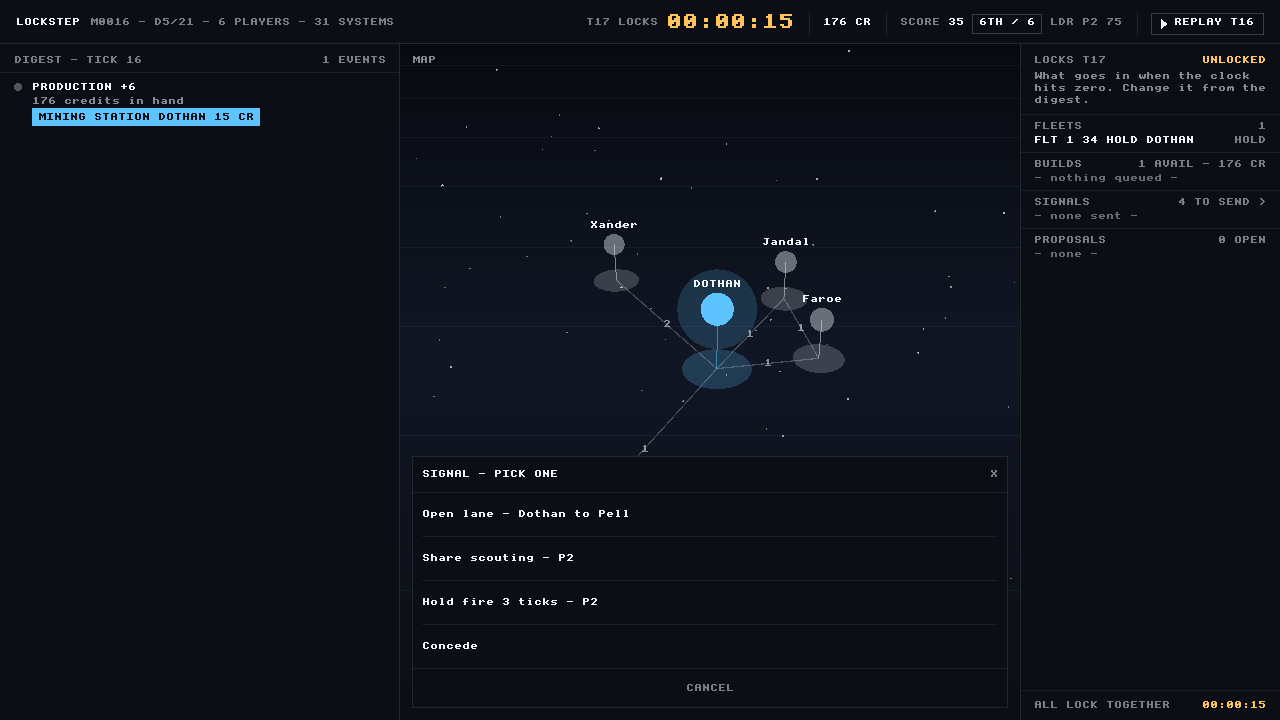
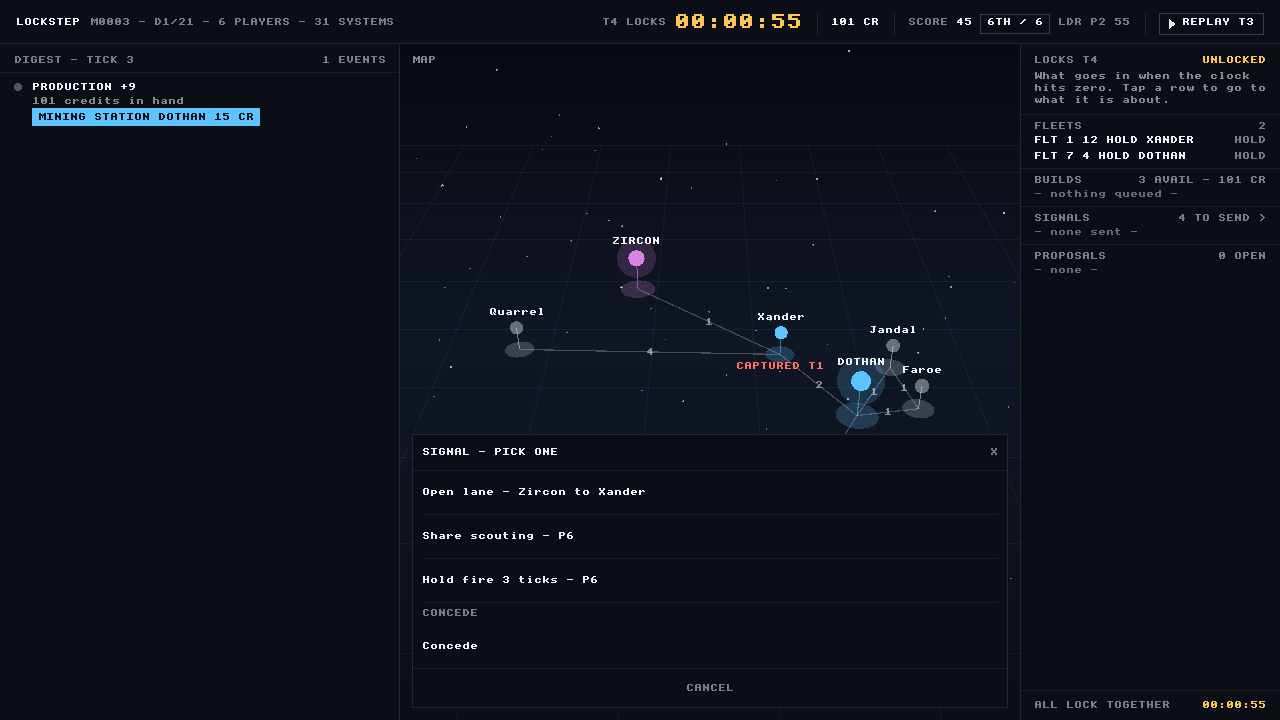
Retake every capture the eight changes touched
`Design/UI/screens/` is the design record's evidence, so a change that moves a
pixel makes it stale. Retaken from the Debug build carrying ADR-060 to ADR-066,
same recipe as 2026-09-12's first set: thirteen redone and three states that had
none.

New: `01-rail-hover.png` (the locks rail with the pointer on a row),
`01-signal-sheet-armed.png` (the concede armed, red, under its band), and
`06-at-lock-sheet.png` (a sheet left open across the lock, dim, with the LOCKED
chip in its header).

Unchanged and left alone: `03-join.png`, `05-connecting.png`, the two refusals,
and -- byte for byte, which is the check -- `01-finished.png`,
`05-match-finished.png` and `05-waiting-for-the-host.png`, whose rails were
already in a state these changes do not touch.

README.md names them, and says which two states of the build have no capture and
why: the digest's page band needs a card stack a six-player practice board does
not produce, and the destination row's garrison line needs a rival fleet parked
on a neighbour. Both are pinned by tests instead.

Claude-Session: https://claude.ai/code/session_01Bj1EpneFswCUm8nR9QbAts

diff --git a/Design/UI/README.md b/Design/UI/README.md
@@ -16,26 +16,34 @@ from the tree, not from the plan.
 
 Built from `Design/space-4x-one-pager-v10.md`, ADR-014 (interface layer), ADR-027 (owner colours),
 ADR-028/029 (roles, tokens) and the decisions since: ADR-034 (what the handoff left open) and
-ADR-036 through ADR-059, which are cited where they apply.
+ADR-036 through ADR-066, which are cited where they apply.
 
 ## Screens
 
 | # | Screen | Status | In `screens/` | Code |
 |---|---|---|---|---|
-| 01 | Main page — digest as order surface, map, locks rail | **Built** (ADR-034; then 045, 052, 053, 055–059) | `01-main-page.png` (tick 2 of a practice match: a contact, a claim with its priced build, production), `01-orders-queued.png` (tick 0: a move ordered and a build queued, before the lock), `01-fleet-under-way.png` (tick 1: the route and its marker), the sheets `01-build-sheet.png`, `01-destination-sheet.png`, `01-signal-sheet.png`, and `01-finished.png`. The map's unbuilt details are item 6 below | `LockstepClient/MainPage.cpp`, `DigestView.cpp`, `MapRender.cpp` |
+| 01 | Main page — digest as order surface, map, locks rail | **Built** (ADR-034; then 045, 052, 053, 055–066) | `01-main-page.png` (tick 2 of a practice match: a contact, a claim with its priced build, production), `01-orders-queued.png` (tick 0: a move ordered and a build queued, before the lock), `01-fleet-under-way.png` (tick 1: the route and its marker), `01-rail-hover.png` (the locks rail with the pointer on a row, ADR-060), the sheets `01-build-sheet.png`, `01-destination-sheet.png`, `01-signal-sheet.png` and `01-signal-sheet-armed.png` (the concede armed under its band, ADR-064), and `01-finished.png`. The map's unbuilt details are item 6 below | `LockstepClient/MainPage.cpp`, `DigestView.cpp`, `MapRender.cpp` |
 | 02 | Share tick — 480×640 export | **Not built.** No button, no export; ADR-034 §2 says clipboard-only if it is ever built, and its open question asks whether it should be | none; the mockup that was the target, if it stays one, is in the design file and the history | — |
 | 03 | Join | **Built** (ADR-034 §3, ADR-041) | `03-join.png` | `LockstepClient/JoinPage.cpp`, `NeuronClient/TextField.h` |
 | 04 | Connection lost | **Built** (ADR-038, ADR-043) | `04-connection-lost.png` | `LockstepClient/ConnectionDialog.cpp` |
 | 05 | Connection states | **Built** as one component with seven states. The WELCOME dialog is not one of them | `05-connecting.png`, `05-refused-unknown-token.png`, `05-refused-seat-in-use.png`, `05-waiting-for-the-host.png`, `05-match-finished.png` | `LockstepClient/ConnectionDialog.cpp` |
-| 06 | At lock | **Built** (ADR-039) | `06-at-lock.png` | `LockstepClient/MainPage.cpp` |
+| 06 | At lock | **Built** (ADR-039, ADR-065) | `06-at-lock.png`, `06-at-lock-sheet.png` (a sheet left open across the lock: dim rows, the `LOCKED` chip in its header, the rail's sentence in amber) | `LockstepClient/MainPage.cpp` |
 | 07 | Replay — phase step-through | **Stub**, and its title says so (`REPLAY TICK 7 - NOT YET WIRED`). A sheet listing the six phases; nothing steps | `07-replay.png` is the stub as built; the step-through the mockup drew is item 2 below, its centred panel superseded by the sheet (ADR-052) | `MainPage::DrawPanel` |
-| 08 | Missed digests | **Partial.** The backlog is kept and concatenated (ADR-044); no tabs | `08-missed-digests.png`; the tabs the mockup drew are item 3 below | `Lockstep/Lockstep.cpp` (match loop), `DigestView.cpp` |
-| 09 | Seats — the host's lobby | **Built**, and not in the handoff (ADR-036, 037, 041, 051) | `09-seats.png` (the host alone), `09-seats-joined.png` (a second seat connected and selected) | `Lockstep/SeatsPage.cpp` |
+| 08 | Missed digests | **Partial.** The backlog is kept and concatenated (ADR-044) and its repeats are folded (ADR-062); no tabs | `08-missed-digests.png` (`SINCE YOU LOOKED - T1 > T7`, the delta box, and two folded `PRODUCTION +18 - T1 > T7` cards); the tabs the mockup drew are item 3 below | `Lockstep/Lockstep.cpp` (match loop), `DigestView.cpp` |
+| 09 | Seats — the host's lobby | **Built**, and not in the handoff (ADR-036, 037, 041, 051, 066) | `09-seats.png` (the host alone), `09-seats-joined.png` (a second seat connected and selected, and the three-way on every card) | `Lockstep/SeatsPage.cpp` |
 
 Also built with no mockup, all described in `SCREENS.md` and all captured but one: the four
 **sheets** (build, destination, signal, replay — ADR-052), the **WAITING FOR THE HOST** and
 **REFUSED · NOT UNDERSTOOD** dialogs (ADR-038), and the main page's **finished-match** state. The
 one not captured is REFUSED · NOT UNDERSTOOD, which needs a malformed hello that no client sends.
+
+**Two states of the build have no capture and cannot get one from a practice match**, which is worth
+saying rather than leaving a reader to look for them. The digest's **page band** (ADR-061) needs a
+card stack taller than a 648-pixel column, and six players over eight ticks produce three cards;
+`DigestOverflowTapTests` builds a twenty-card digest and presses the band instead. The destination
+row's **garrison line** (`P3 - 11 +DEF`, ADR-063) needs a rival fleet parked on a neighbour of the
+fleet being moved, which the opening board never has — `01-destination-sheet.png` is the ordinary
+case, every candidate `UNCLAIMED`.
 
 ## Flow
 
@@ -102,8 +110,9 @@ claim is true again, of a different mechanism: a row links to the thing it names
 
 Done on 2026-09-12: every screen and state above was captured from the Debug build of the tree at
 a4c9235, and the eight mockups left `screens/` the same day — the four the build had superseded and
-the four whose targets the list above keeps in words. What is known about doing it, measured on
-2026-09-12:
+the four whose targets the list above keeps in words. Every capture the eight changes of ADR-060 to
+ADR-066 touched was retaken the same day from the Debug build carrying them. What is known about
+doing it, measured on 2026-09-12:
 
 - `Build/Screenshot.ps1 -Exe x64\Debug\Lockstep.exe -Out shot.png -Arguments "--tick 4 --store scratch"`
   captures the client area (DPI-aware, cropped to the 1280×720) and gets you screen 03 as it opens.
@@ -115,7 +124,13 @@ the four whose targets the list above keeps in words. What is known about doing 
   is, the window will report itself foreground and no tap will happen.
 - Client-pixel targets: JOIN (826, 479); PRACTICE MATCH (744, 482); `REPLAY T<n>` (1210, 24); a
   sheet's `CANCEL` bar (700, 688); the `SIGNALS` header on a fresh rail (1150, 201). The filled
-  build button moves with the digest — scan column x=40 for solid blue, as `TapBuild` does.
+  build button moves with the digest — scan column x=40 for solid blue, as `TapBuild` does. **The
+  `SIGNALS` header moves too**: it sits under BUILDS, so a queued build or a second fleet pushes it
+  down 16 pixels a line, and 201 is only right on an opening rail.
+- **The rail's hover is read back, not eyeballed** (ADR-060). `HOVER_FILL` is white at 20/255 over
+  the ink, which lands on `30,33,38` against a background of `11,14,20` — plain in place and easy to
+  miss in a thumbnail, so a capture script should assert the pixel. Measured that way on 2026-09-12,
+  and it is what found that a moving mouse produces no `WM_POINTERUPDATE` at all.
 - States: 09 = JOIN as the host; 01 = PRACTICE MATCH (`--tick 4` overrides the preset's two
   minutes); the sheets = a held system on the map, `MOVE`/`REDIRECT`, the `SIGNALS` header, `REPLAY`;
   06 = a `--serve` process suspended past a lock (`NtSuspendProcess`); 04 = that process killed;
@@ -131,9 +146,18 @@ the four whose targets the list above keeps in words. What is known about doing 
   y≈645.
 - **06, 04 and 08 from one dedicated server:** `--serve 7351 --phase0 --tick 30 --bots 5 --store
   <name>` and a client `--join 127.0.0.1:7351 --token alpha`. `NtSuspendProcess` the server and
-  wait for the client's countdown to pass zero (06); resume it and it catches up; kill it mid-tick
-  (04); a minute later start it again with the same `--store` and it resumes (ADR-042) while the
-  client reconnects on its own (08, `SINCE YOU LOOKED - T6 > T9`).
+  wait for the client's countdown to pass zero (06); open the `SIGNALS` sheet first and suspend it
+  again for 06 with a sheet across the lock (ADR-065); resume it and it catches up; kill it mid-tick
+  (04).
+- **08 needs the CLIENT to be the one that was away**, which is not what the line above used to say
+  and cost a run to find out on 2026-09-12. The whole backlog is sent on ARRIVAL and the newest tick
+  on every tick after (ADR-044, `MatchServer::PushState`), so a client that merely watched a
+  restarted server catch up has one digest and no gap at all, and one that was connected throughout
+  a suspension gets the gap with a single event in it. What produces `SINCE YOU LOOKED - T1 > T7`
+  over several ticks of events is: suspend the CLIENT, kill the server under it, restart the server
+  with the same `--store` and let it run five or six ticks, then resume the client — its socket is
+  dead, it reconnects, and a reconnect is an arrival with a `drawnTick` several ticks old.
+  `--tick 20` makes that about two minutes.
 - **MATCH FINISHED** from a practice match on `--tick 4`, which ends in two minutes; `VIEW LAST
   DIGEST` is the filled button at about (806, 403). **WAITING FOR THE HOST:** on 09 tap seat 02's
   card (500, 230) and its `COPY` (1080, 274), then start a joiner with the clipboard's token.

diff --git a/Design/UI/SCREENS.md b/Design/UI/SCREENS.md
@@ -78,7 +78,8 @@ drawn from `BuildRow::isTradeLane`, which nothing sets.
 **Sheets (ADR-052).** The four panels — build, destination, signal, replay — are one component
 (`DrawPanel`), drawn as a sheet against the bottom of the map pane, 44px rows, six at most, a
 seventh reported. No mockup exists for any of them; the captures are `01-build-sheet.png`,
-`01-destination-sheet.png`, `01-signal-sheet.png` and `07-replay.png`.
+`01-destination-sheet.png`, `01-signal-sheet.png`, `01-signal-sheet-armed.png`, `07-replay.png`
+and, for a sheet left open across the lock, `06-at-lock-sheet.png`.
 - **Build** (`BUILD - DOTHAN`): opened by tapping a system you hold; lists that system's buildings
   and nothing else (ADR-058) — `Shipyard - Dothan` with `20 CR`, or `QUEUED`, or
   `20 CR - NEED 7 MORE` dim; a system with both built says `NOTHING LEFT TO BUILD HERE`; a system you
